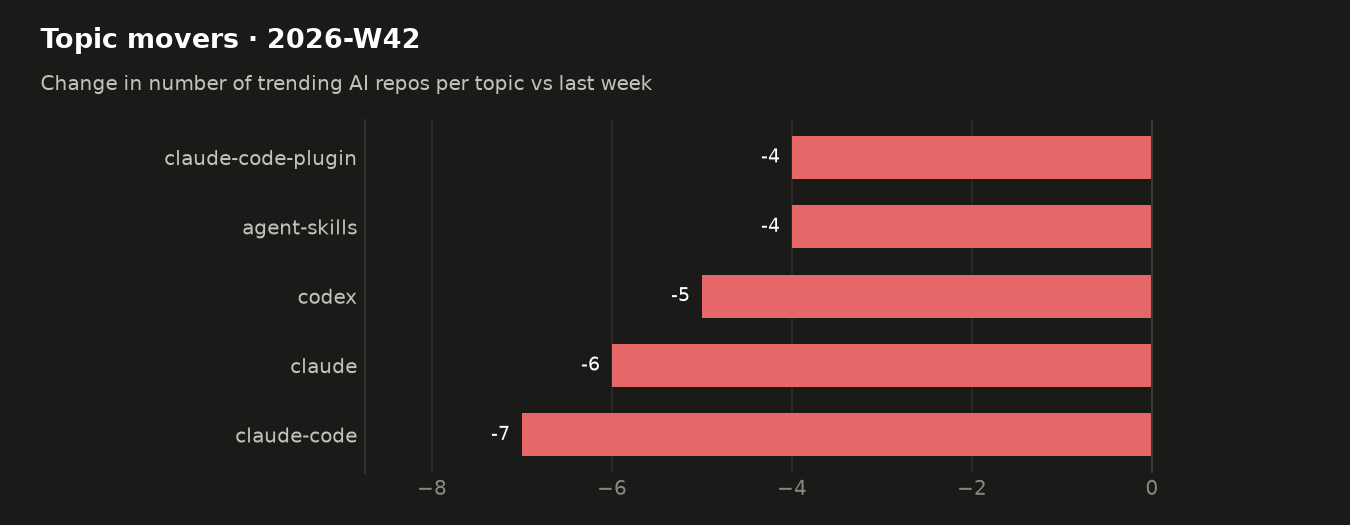
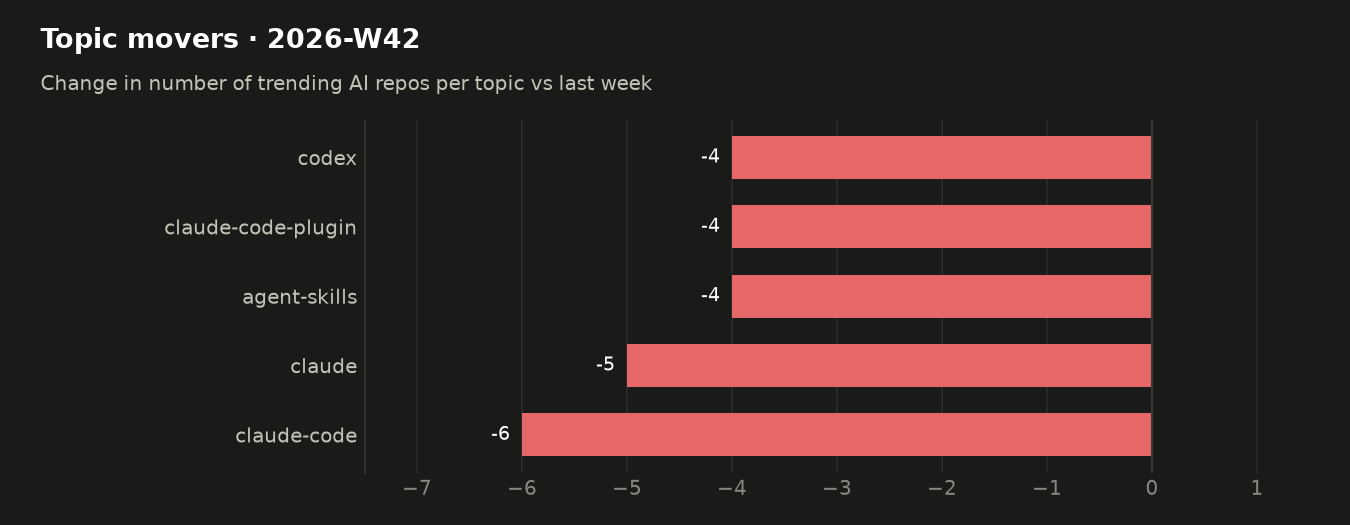
trending: snapshot 2026-10-13

diff --git a/README.md b/README.md
@@ -7,25 +7,28 @@ Every morning a GitHub Actions workflow reads the GitHub trending page, looks up
 ## Live view
 
 <!-- TRACKER_START -->
-### 🔥 AI repos trending today · 2026-10-12
+### 🔥 AI repos trending today · 2026-10-13
 
-5 of 8 trending repositories are AI-related.
+8 of 9 trending repositories are AI-related.
 
 | # | Repo | Language | ⭐ today | ⭐ total | Topics |
 |--:|---|---|--:|--:|---|
-| 1 | [morluto/rea](https://github.com/morluto/rea)<br><sub>Star morluto / rea Reverse engineer anything with agents, from app behavior down to native…</sub> | TypeScript | 25,599 | 125,459 | `agent-skills` `ai-agents` `binary-analysis` `claude-code` |
-| 3 | [storytold/artcraft](https://github.com/storytold/artcraft)<br><sub>Star storytold / artcraft ArtCraft is an intentional crafting engine for artists, designer…</sub> | Rust | 2,957 | 19,433 | `3d-graphics` `ai` `aivideo` `filmmaking` |
-| 4 | [cathrynlavery/diagram-design](https://github.com/cathrynlavery/diagram-design)<br><sub>Sponsor Star cathrynlavery / diagram-design Editorial diagram design for Claude Code, Code…</sub> | HTML | 1,083 | 51,311 | `agent-skills` `claude-code` `codex` `data-visualization` |
-| 6 | [pytorch/pytorch](https://github.com/pytorch/pytorch)<br><sub>Star pytorch / pytorch Tensors and Dynamic neural networks in Python with strong GPU accel…</sub> | Python | 315 | 104,680 | `autograd` `deep-learning` `gpu` `machine-learning` |
-| 7 | [lyogavin/airllm](https://github.com/lyogavin/airllm)<br><sub>Sponsor Star lyogavin / airllm AirLLM 70B inference with single 4GB GPU</sub> | Jupyter Notebook | 548 | 36,869 | `chinese-llm` `chinese-nlp` `finetune` `generative-ai` |
+| 1 | [morluto/rea](https://github.com/morluto/rea)<br><sub>Star morluto / rea Reverse engineer anything with agents, from app behavior down to native…</sub> | TypeScript | 45,327 | 180,233 | `agent-skills` `ai-agents` `binary-analysis` `claude-code` |
+| 3 | [mksglu/context-mode](https://github.com/mksglu/context-mode)<br><sub>Sponsor Star mksglu / context-mode Context window optimization for AI coding agents. Sandb…</sub> | TypeScript | 246 | 27,662 | `antigravity` `claude` `claude-code` `claude-code-hooks` |
+| 4 | [storytold/artcraft](https://github.com/storytold/artcraft)<br><sub>Star storytold / artcraft ArtCraft is an intentional crafting engine for artists, designer…</sub> | Rust | 4,095 | 23,514 | `3d-graphics` `ai` `aivideo` `filmmaking` |
+| 5 | [open-webui/open-webui](https://github.com/open-webui/open-webui)<br><sub>Sponsor Star open-webui / open-webui User-friendly AI Interface (Supports Ollama, OpenAI A…</sub> | Python | 157 | 155,435 | `ai` `llm` `llm-ui` `llm-webui` |
+| 6 | [cathrynlavery/diagram-design](https://github.com/cathrynlavery/diagram-design)<br><sub>Sponsor Star cathrynlavery / diagram-design Editorial diagram design for Claude Code, Code…</sub> | HTML | 2,081 | 53,220 | `agent-skills` `claude-code` `codex` `data-visualization` |
+| 7 | [lyogavin/airllm](https://github.com/lyogavin/airllm)<br><sub>Sponsor Star lyogavin / airllm AirLLM 2.8T LLM inference with single 4GB GPU</sub> | Jupyter Notebook | 879 | 37,868 | `chinese-llm` `chinese-nlp` `finetune` `generative-ai` |
+| 8 | [microsoft/BitNet](https://github.com/microsoft/BitNet)<br><sub>Star microsoft / BitNet Official inference framework for 1-bit LLMs</sub> | C++ | 97 | 41,058 | – |
+| 9 | [Alishahryar1/free-claude-code](https://github.com/Alishahryar1/free-claude-code)<br><sub>Star Alishahryar1 / free-claude-code Use Claude Code, Codex, VSCode, Pi, and OpenCode (and…</sub> | Python | 626 | 59,682 | – |
 
 ### 📊 This week so far · 2026-W42
 
 #### Summary
 
-- **5** distinct AI repos trended over 1 day(s) (last week: 34)
-- AI share of all trending slots: **62%** (-12 pts vs last week)
-- No single dominant language: HTML, Jupyter Notebook, Python, Rust, TypeScript tied at 1 repo(s) each
+- **9** distinct AI repos trended over 2 day(s) (last week: 34)
+- AI share of all trending slots: **76%** (+2 pts vs last week)
+- Dominant language: **Python** (33% of AI repos)
 
 #### Languages
 
@@ -33,11 +36,12 @@ Every morning a GitHub Actions workflow reads the GitHub trending page, looks up
 
 | Language | Repos | Share | Last week |
 |---|--:|--:|--:|
-| TypeScript | 1 | 20% | 5 |
-| Rust | 1 | 20% | 2 |
-| HTML | 1 | 20% | 1 |
-| Python | 1 | 20% | 10 |
-| Jupyter Notebook | 1 | 20% | 0 |
+| Python | 3 | 33% | 10 |
+| TypeScript | 2 | 22% | 5 |
+| Rust | 1 | 11% | 2 |
+| HTML | 1 | 11% | 1 |
+| Jupyter Notebook | 1 | 11% | 0 |
+| C++ | 1 | 11% | 1 |
 
 #### Topics
 
@@ -45,32 +49,36 @@ Every morning a GitHub Actions workflow reads the GitHub trending page, looks up
 
 | Topic | Repos this week |
 |---|--:|
-| `claude-code` | 2 |
+| `mcp` | 3 |
+| `claude-code` | 3 |
+| `codex` | 3 |
 | `agent-skills` | 2 |
-| `codex` | 2 |
-| `dsh-plugin` | 1 |
+| `binary-analysis` | 1 |
 | `cli` | 1 |
-| `developer-tools` | 1 |
-| `cordis` | 1 |
-| `ai-agents` | 1 |
-| `static-analysis` | 1 |
-| `ghidra` | 1 |
 | `decompiler` | 1 |
-| `disassembler` | 1 |
+| `ghidra` | 1 |
+| `static-analysis` | 1 |
+| `ctf` | 1 |
+| `ai-agents` | 1 |
+| `dsh` | 1 |
 
 #### Most persistent AI repos
 
 | Repo | Language | Days trending | Stars gained | Total stars |
 |---|---|--:|--:|--:|
-| [morluto/rea](https://github.com/morluto/rea) | TypeScript | 1 | 25,599 | 125,459 |
-| [storytold/artcraft](https://github.com/storytold/artcraft) | Rust | 1 | 2,957 | 19,433 |
-| [cathrynlavery/diagram-design](https://github.com/cathrynlavery/diagram-design) | HTML | 1 | 1,083 | 51,311 |
-| [lyogavin/airllm](https://github.com/lyogavin/airllm) | Jupyter Notebook | 1 | 548 | 36,869 |
+| [morluto/rea](https://github.com/morluto/rea) | TypeScript | 2 | 70,926 | 180,233 |
+| [storytold/artcraft](https://github.com/storytold/artcraft) | Rust | 2 | 7,052 | 23,514 |
+| [cathrynlavery/diagram-design](https://github.com/cathrynlavery/diagram-design) | HTML | 2 | 3,164 | 53,220 |
+| [lyogavin/airllm](https://github.com/lyogavin/airllm) | Jupyter Notebook | 2 | 1,427 | 37,868 |
+| [Alishahryar1/free-claude-code](https://github.com/Alishahryar1/free-claude-code) | Python | 1 | 626 | 59,682 |
 | [pytorch/pytorch](https://github.com/pytorch/pytorch) | Python | 1 | 315 | 104,680 |
+| [mksglu/context-mode](https://github.com/mksglu/context-mode) | TypeScript | 1 | 246 | 27,662 |
+| [open-webui/open-webui](https://github.com/open-webui/open-webui) | Python | 1 | 157 | 155,435 |
+| [microsoft/BitNet](https://github.com/microsoft/BitNet) | C++ | 1 | 97 | 41,058 |
 
 ➡ Last full weekly analysis: [2026-W41](reports/weekly/2026-W41.md) · [all reports](reports/weekly)
 
-_Tracking since 2026-10-01 · 12 day(s) of data · [raw data](data/trending.csv)_
+_Tracking since 2026-10-01 · 13 day(s) of data · [raw data](data/trending.csv)_
 <!-- TRACKER_END -->
 
 ## How it works
